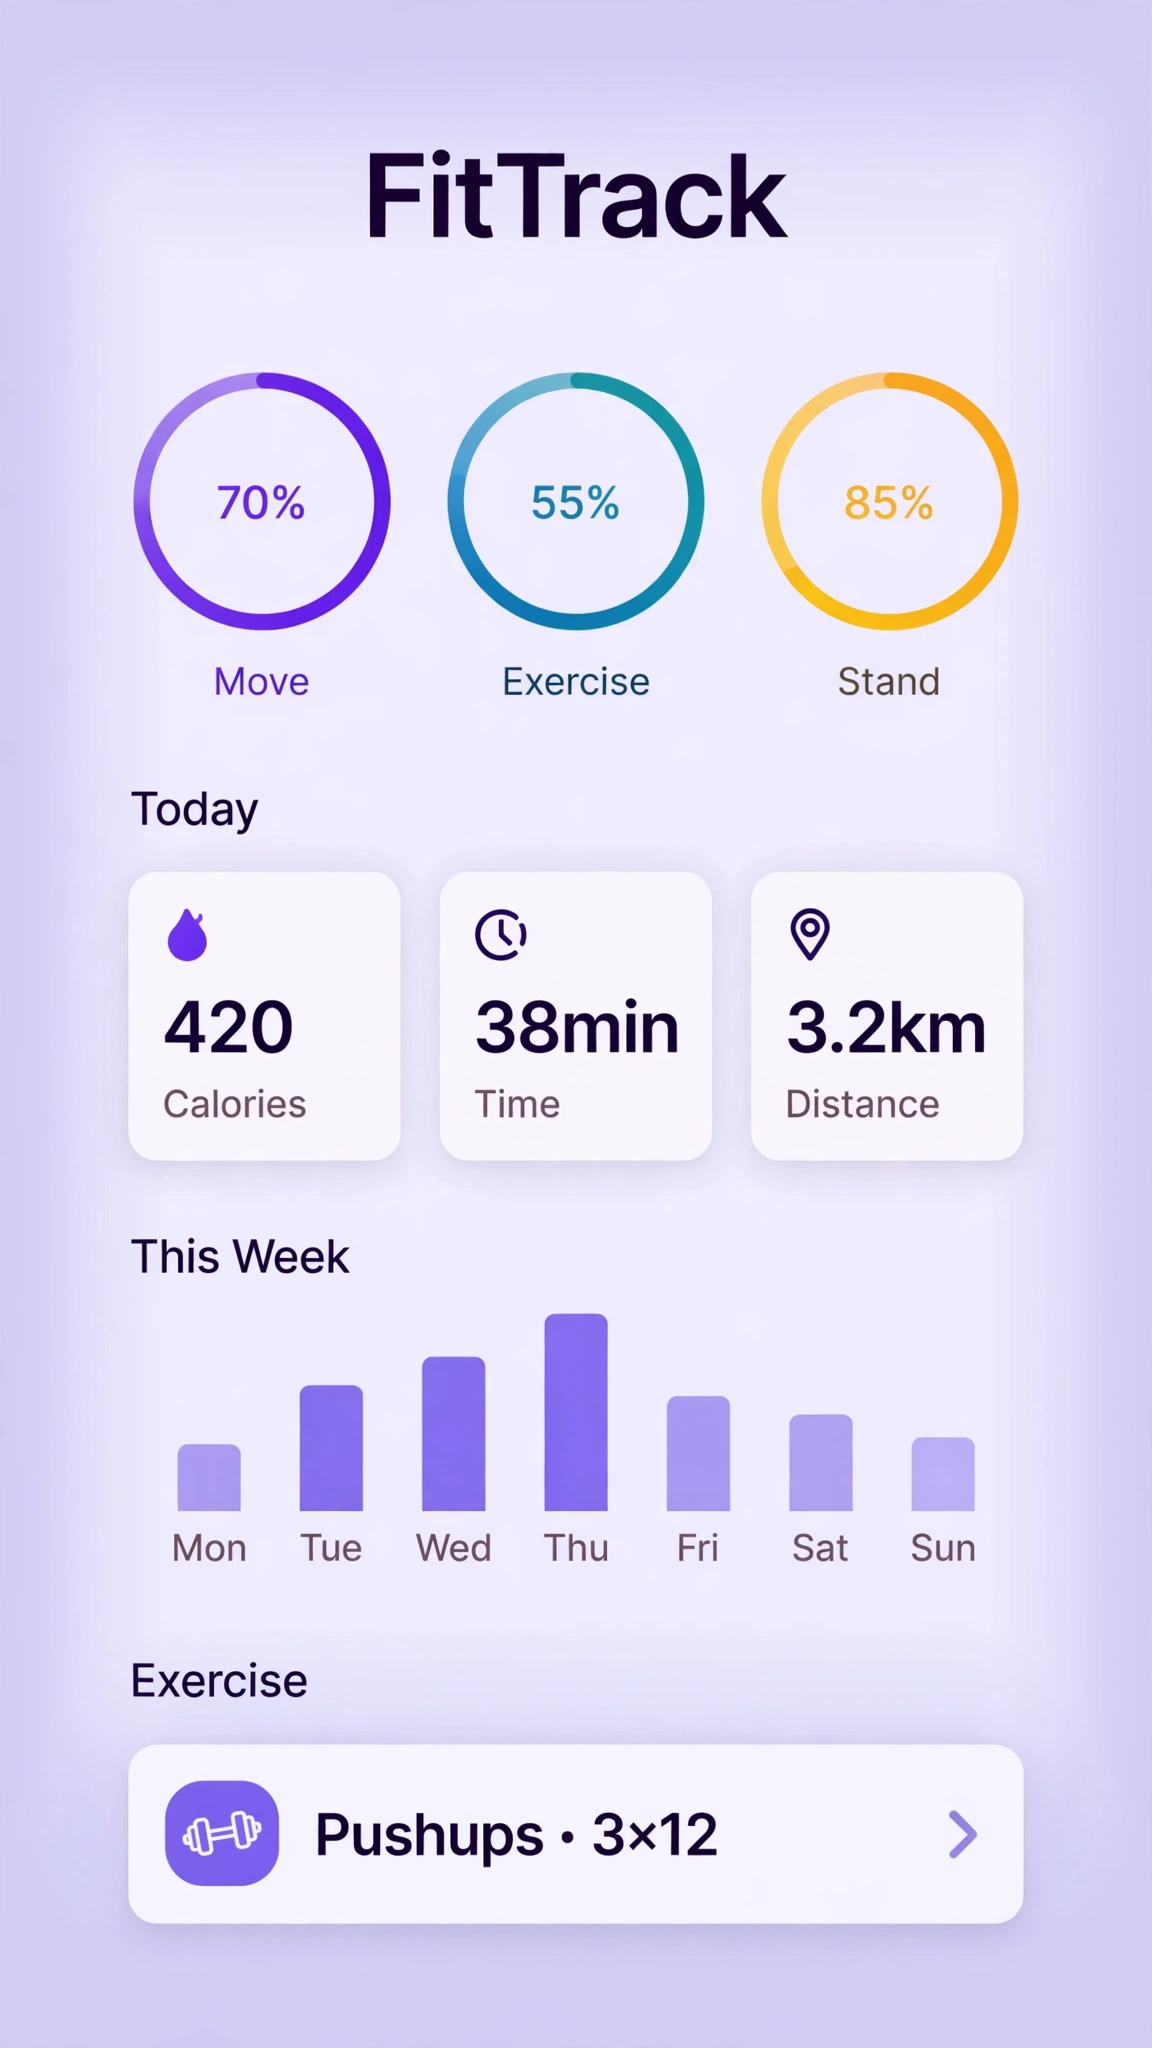
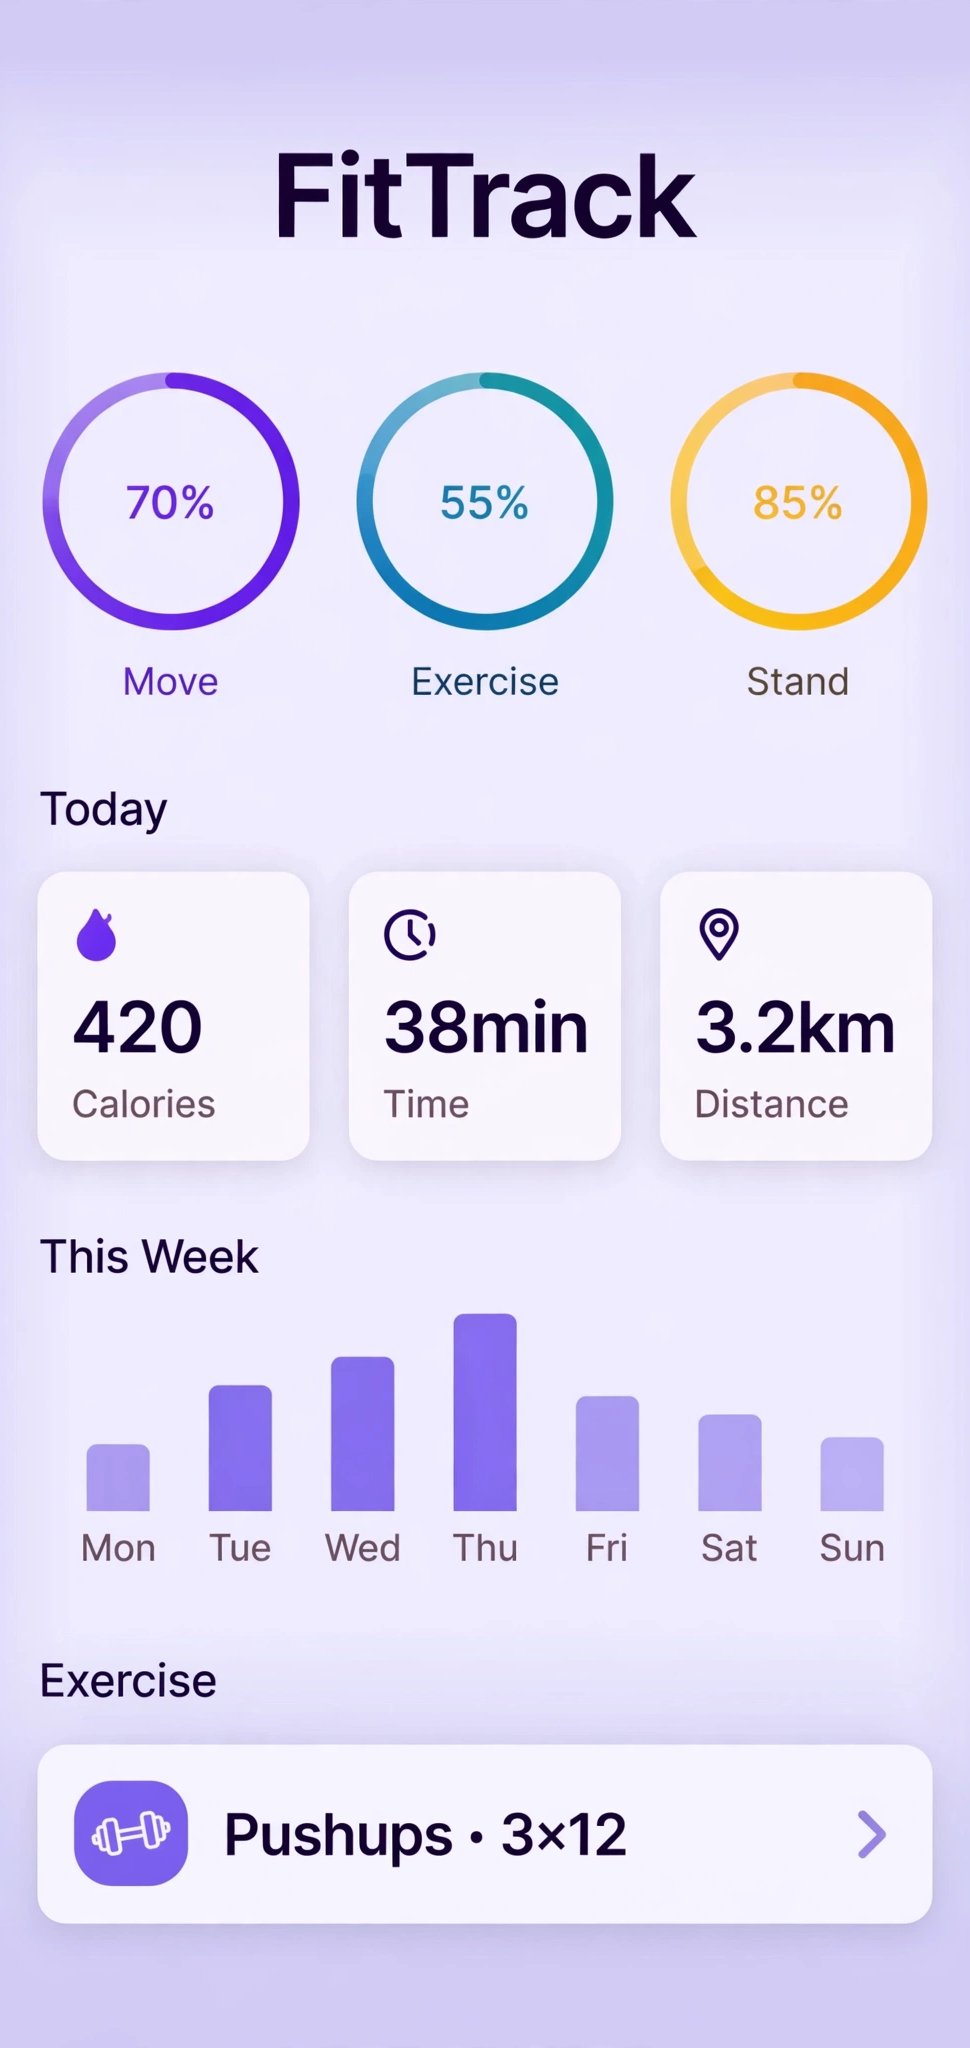
Fix work-section screen fit and responsive phone sizes
Shopio + WalletWise screens regenerated full-bleed edge-to-edge (exact 9:19); FitTrack center-cropped to 9:19; PhoneMockup sizes responsive (smaller at lg for narrow 4-col cards); cross-verified at 8 widths with zero overflow; docs updated.

diff --git a/portfolio/src/lib/components/ui/PhoneMockup.svelte b/portfolio/src/lib/components/ui/PhoneMockup.svelte
@@ -11,16 +11,16 @@
 	const screens: Record<MockupVariant, { src: string; width: number; height: number }> = {
 		food: { src: '/images/screen-foodly.png', width: 1008, height: 2128 },
 		shop: { src: '/images/screen-shopio.png', width: 1008, height: 2128 },
-		finance: { src: '/images/screen-walletwise.png', width: 1152, height: 2048 },
-		fitness: { src: '/images/screen-fittrack.png', width: 1152, height: 2048 }
+		finance: { src: '/images/screen-walletwise.png', width: 1008, height: 2128 },
+		fitness: { src: '/images/screen-fittrack.png', width: 970, height: 2048 }
 	};
 	const screen = $derived(screens[variant]);
 </script>
 
-<div class={cn('relative mx-auto w-44', className)} aria-hidden="true">
+<div class={cn('relative mx-auto w-44 lg:w-40 xl:w-44', className)} aria-hidden="true">
 	<!-- Back phone, same screen, tilted -->
 	<div
-		class="absolute top-6 -right-3 aspect-[9/19] w-28 rotate-[8deg] overflow-hidden rounded-[1.3rem] border-4 border-white/90 bg-white shadow-sm"
+		class="absolute top-6 -right-3 aspect-[9/19] w-28 rotate-[8deg] overflow-hidden rounded-[1.3rem] border-4 border-white/90 bg-white shadow-sm lg:-right-2 lg:w-24 xl:-right-3 xl:w-28"
 	>
 		<img
 			src={screen.src}
@@ -35,7 +35,7 @@
 
 	<!-- Front phone with the generated app screen -->
 	<div
-		class="relative aspect-[9/19] w-36 overflow-hidden rounded-[1.6rem] border-4 border-ink bg-white shadow-md"
+		class="relative aspect-[9/19] w-36 overflow-hidden rounded-[1.6rem] border-4 border-ink bg-white shadow-md lg:w-32 xl:w-36"
 	>
 		<img
 			src={screen.src}

diff --git a/docs/10-sources.md b/docs/10-sources.md
@@ -365,3 +365,24 @@ Nothing is recorded here yet: setup has not run.)
   `qa/hero-illustration-v1.png`. Gates re-verified: check 0/0, lint
   pass, Vitest 12/12, Playwright 6/6, build pass. `og.png` regenerated
   from the new hero screenshot.
+
+### 2026-11-15 — Work-section screen fit + responsive cross-verification (v5)
+
+- The user reported screens not fitting the phone frames and the
+  design not being responsive. Cross-verification ran at 8 widths
+  (320/360/390/640/768/1024/1280/1440) plus the case-study page:
+  scripted overflow check found 0 overflowing elements at every
+  width, so the layout itself was sound. The real defects were the
+  assets: Shopio + WalletWise screens had an inset white panel on a
+  colored background (a card inside the phone), while Foodly +
+  FitTrack were full-bleed; FitTrack was also wider than the 9:19
+  frame (1152x2048) so the browser side-cropped it. Fix: Shopio +
+  WalletWise screens regenerated full-bleed edge-to-edge (1008x2128,
+  exact 9:19); FitTrack center-cropped to 970x2048 (exact 9:19, no
+  content lost — verified visually); all four screens now share the
+  frame aspect exactly. PhoneMockup sizes made responsive
+  (w-44 default, w-40 at lg, w-44 at xl) so phones fit the narrow
+  4-column cards at 1024px. Re-verified at all 8 widths
+  (`qa/v5-work-*.png`, overflow 0 everywhere). Gates green again:
+  check 0/0, lint pass, Vitest 12/12, Playwright 6/6. Old screens
+  kept as `qa/screen-*-v1.png` / `qa/screen-fittrack-orig.png`.
